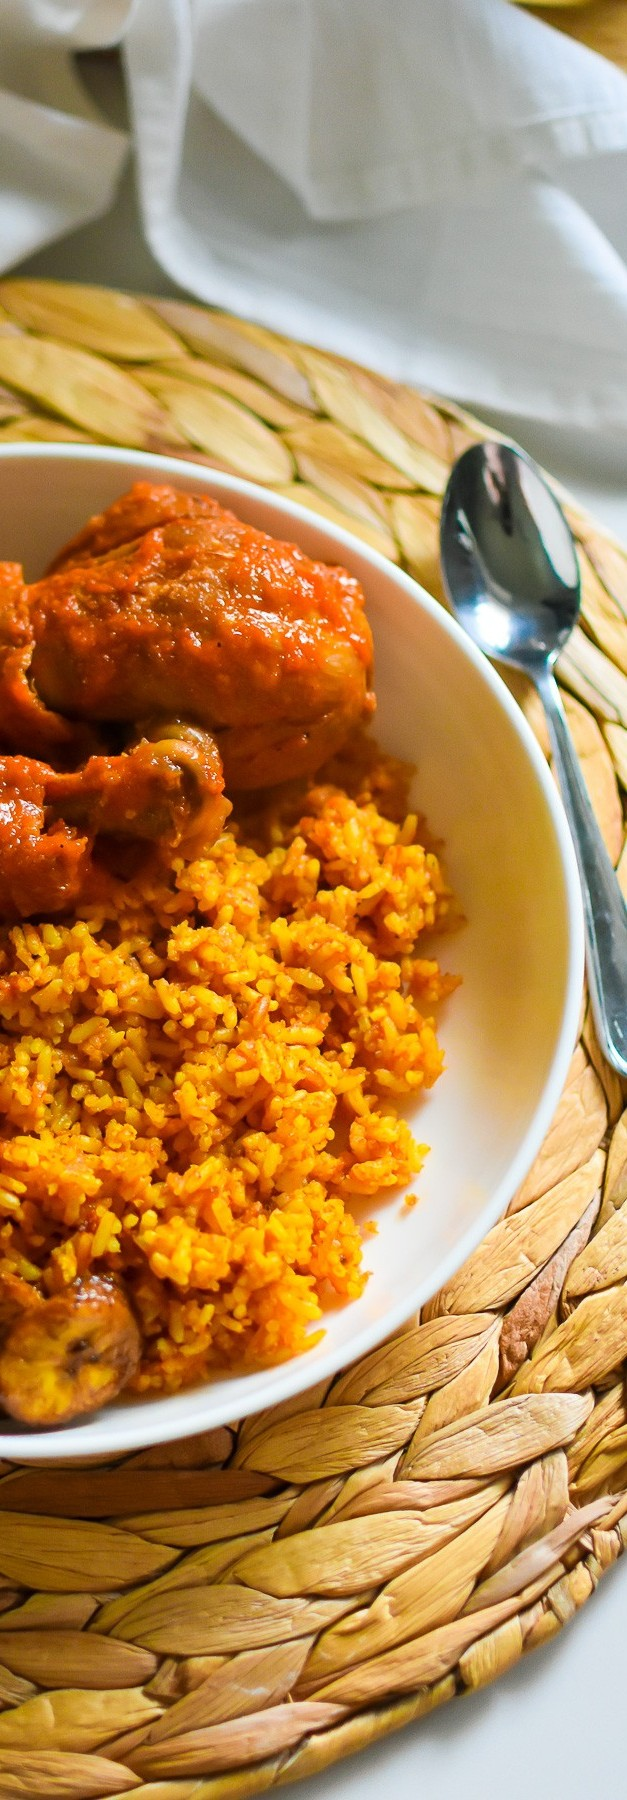
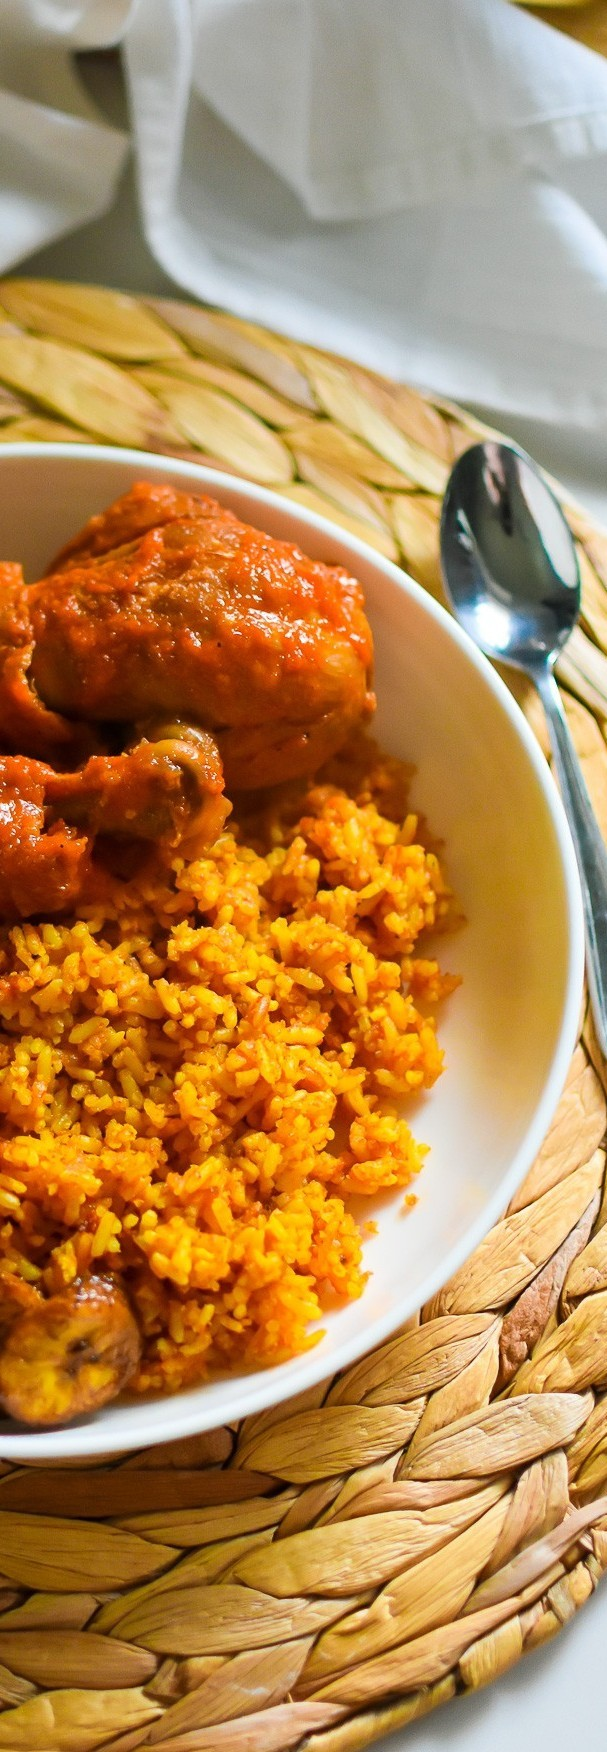
ADDED CSS AND SOME IMAGES

diff --git a/style.css b/style.css
@@ -7,8 +7,8 @@ body {
 }
 
 img {
-    height: 765px;
-    width: auto;
+    height: 750px;
+    width: 230px;
     flex-shrink: 0;
 }
 
@@ -28,7 +28,7 @@ img {
 
 .header {
     border-radius: 8px;
-    margin: 20px auto 40px;
+    margin: 20px auto;
     padding: 50px 100px 100px 100px;
     width: 50%;
     background-image: url("https://t3.ftcdn.net/jpg/02/52/12/40/360_F_252124067_aCtp9ZD934RboKmjJzkXiwYDL7XkNjpn.jpg");
@@ -51,12 +51,9 @@ p {
 
 .links {
     display: flex;
-    /* justify-content: space-between; */
     align-items: center;
     gap: 100px;
-    /* margin: 50px auto; */
     padding: 50px 50px 0 10px;
-    /* border: 1px solid red; */
 }
 
 li {

diff --git a/index.html b/index.html
@@ -30,6 +30,6 @@
                 </div>
             </ul>
         </div>
-        <img src="./images/homepic2.jpeg">
+        <img src="./images/homepic2.jpg">
     </body>
 </html>
